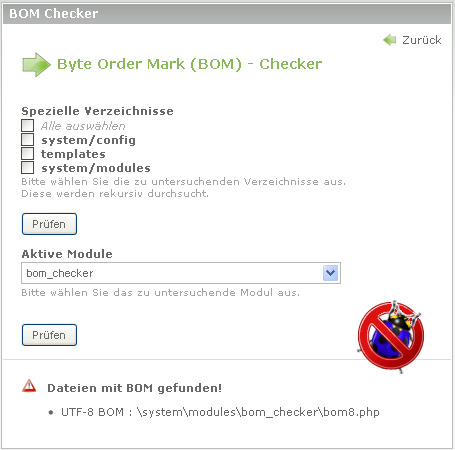
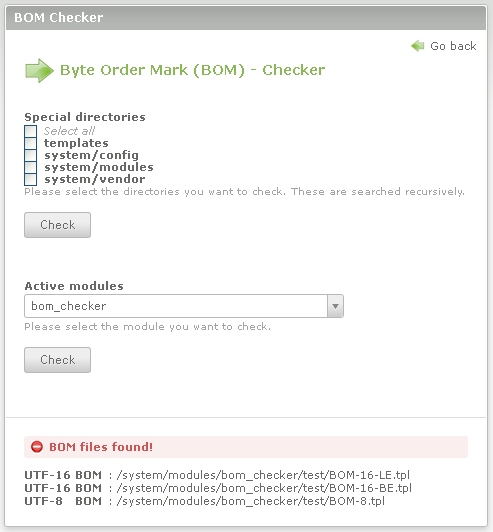
Namespace Anpassung

Changed region(s): [[0.0, 0.0, 1.0, 1.0], [0.7692, 0.6533, 0.9538, 0.84], [0.6462, 0.56, 0.7692, 0.6533]]

diff --git a/modules/BomChecker.php b/modules/BomChecker.php
@@ -188,11 +188,12 @@ class BomChecker extends \BackendModule
 	 */
 	protected function getSpecials()
 	{
-        $this->arrSpecialDirectories['core_plugins']   = 'plugins';
+        //$this->arrSpecialDirectories['core_plugins']   = 'plugins'; // in C3 RC1 entfallen
 	    $this->arrSpecialDirectories['core_templates'] = 'templates';
 		$this->arrSpecialDirectories['core_config']    = 'system/config';
 		//$this->arrSpecialDirectories['core_drivers']   = 'system/drivers'; //in C3: system/modules/core/drivers
 		$this->arrSpecialDirectories['all_modules']    = 'system/modules';
+		$this->arrSpecialDirectories['core_vendor']    = 'system/vendor'; // das neu plugins was nicht js ist
 	
 		foreach ($this->arrSpecialDirectories as $k=>$v)
 		{

diff --git a/config/config.php b/config/config.php
@@ -19,7 +19,7 @@
  */
 $GLOBALS['BE_MOD']['devtools']['bom_checker'] = array
 (
-	'callback'   => 'BomChecker',
+	'callback'   => 'BomChecker\BomChecker',
 	'icon'       => 'system/modules/bom_checker/public/bomcheck.png',
 );
 

diff --git a/config/autoload.php b/config/autoload.php
@@ -16,7 +16,7 @@
  */
 ClassLoader::addNamespaces(array
 (
-	'BugBuster\BomChecker',
+	'BugBuster',
 ));
 
 
